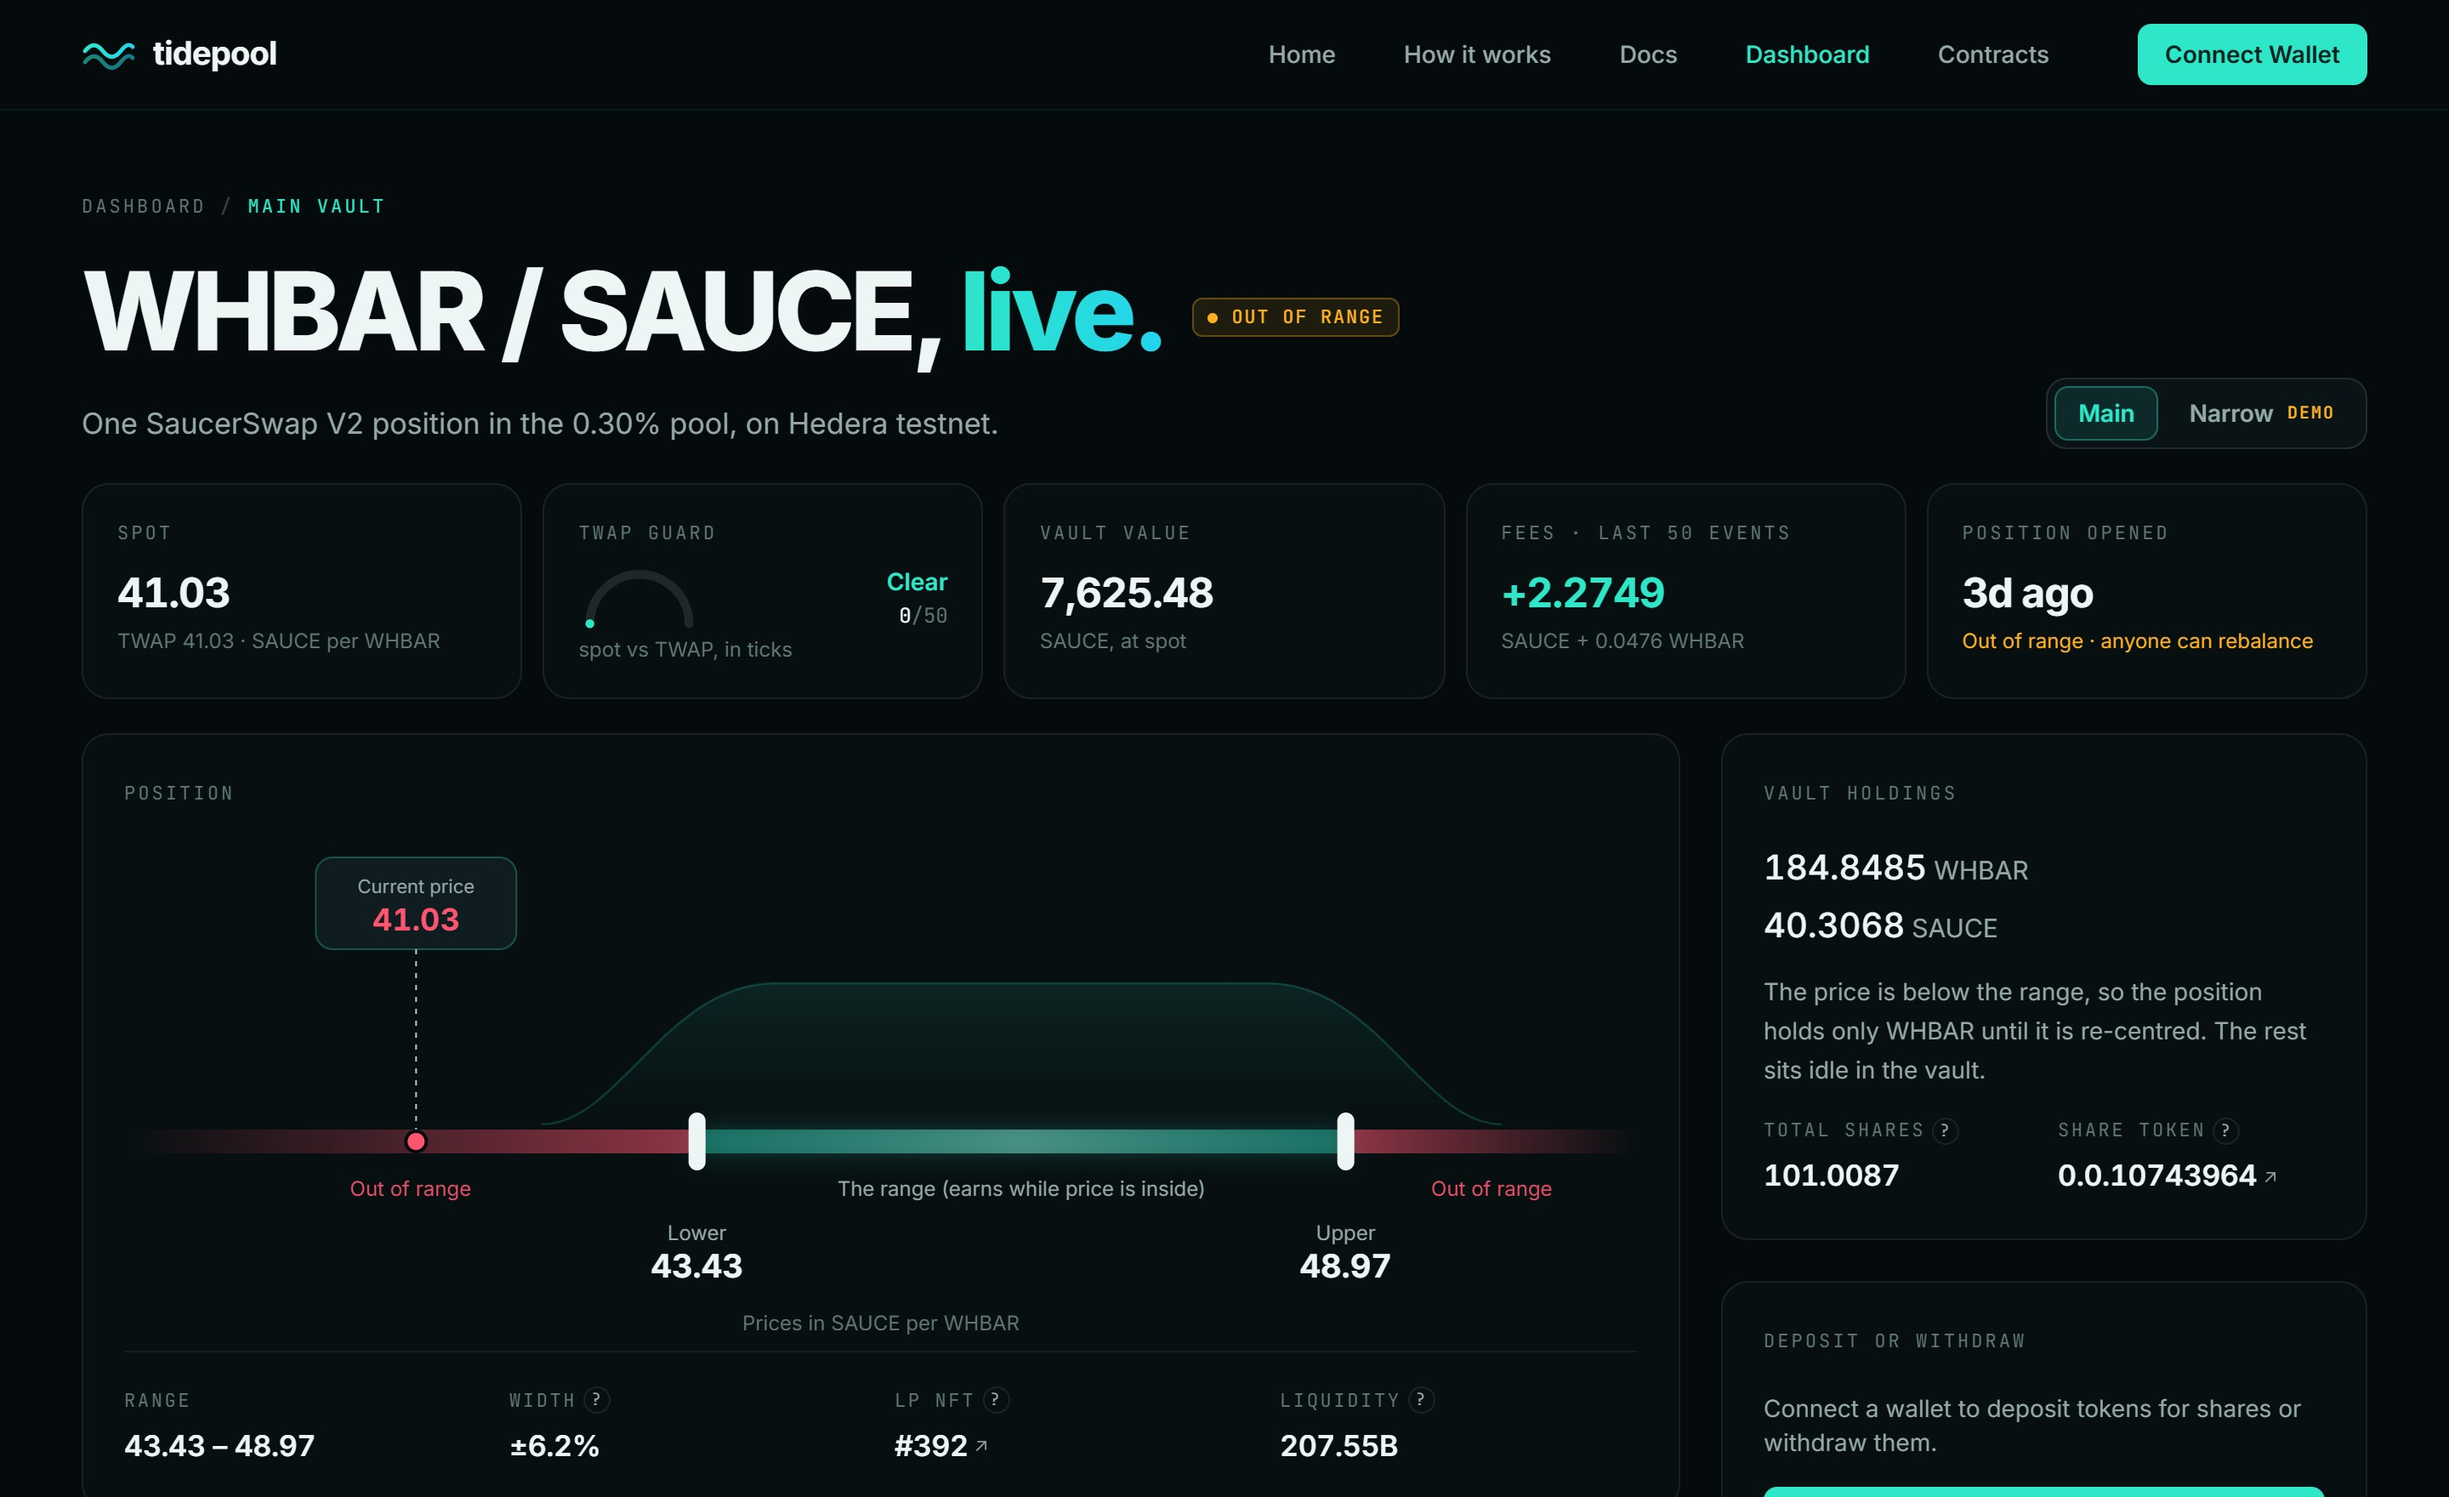
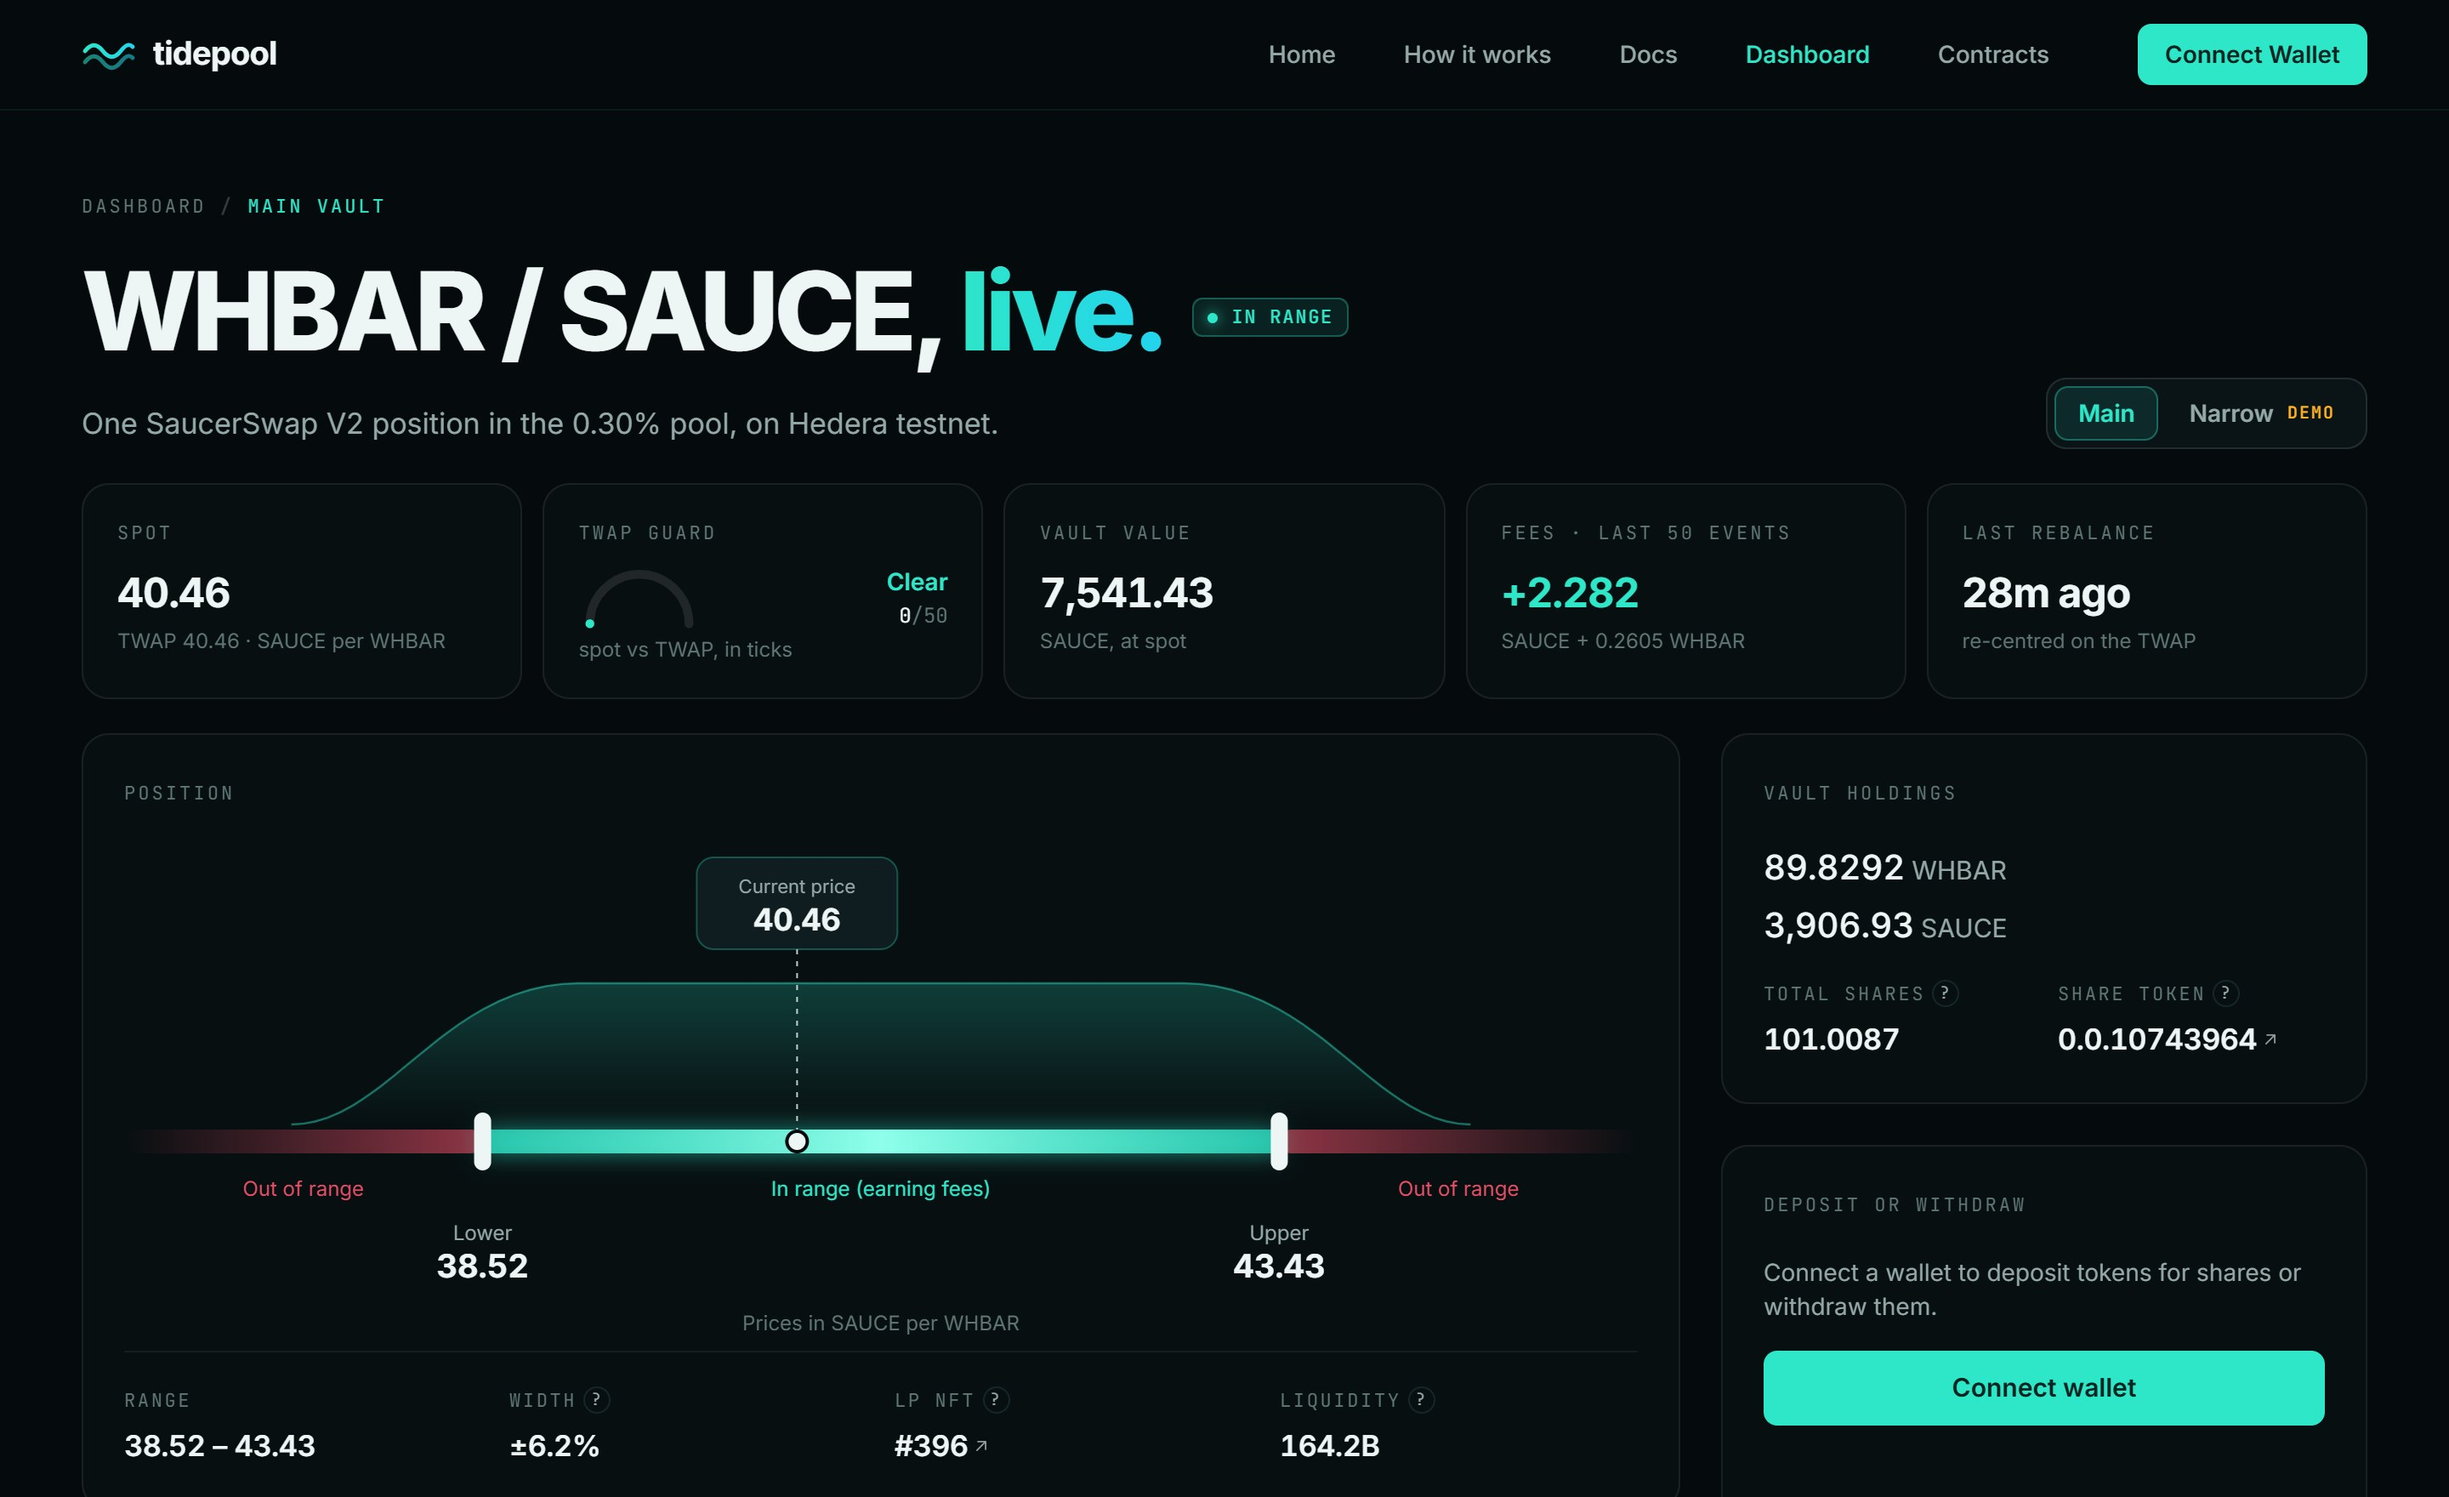
Evidence: both vaults rebalanced from the dashboard
- README and the docs site's testnet evidence: "Main: rebalance, sent from the dashboard" (#392 -> #396,
  [-8340, -7140) -> [-9540, -8340)) and "Narrow: rebalance, sent from the dashboard" (#394 -> #397,
  [-7980, -7860) -> [-9120, -9000)), with gas and fees from the mirror node
- The position fee for these calls (0.47746676 HBAR) is the value the vault forwarded to the position manager in
  the mirror node's contract actions; the footnote now says the fee follows the exchange rate
- Vault rows and ARCHITECTURE.md's main vault header name the current LP NFTs (#396, #397)
- README screenshot retaken from the live dashboard (main vault in range on #396)

diff --git a/README.md b/README.md
@@ -253,14 +253,16 @@ The rebalance above is [`0xf55864c1…0654`](https://hashscan.io/testnet/transac
 | Main: deposit from the dashboard | [`0xbcfc48e9…d82f`](https://hashscan.io/testnet/transaction/0xbcfc48e9cee0edcb1610f430ce150e85152c9677f5a77811375cbc4bf18fd82f) | 0.99988942 WHBAR + 38.245393 SAUCE in; 1.00966568 shares out |
 | Main: withdraw from the dashboard | [`0xb8132ee0…f7b4`](https://hashscan.io/testnet/transaction/0xb8132ee09d555da31bab3a66daf33e305269eda8b808a6e2b2de8b78cee6f7b4) | 0.001 shares burned; 0.0009903 WHBAR + 0.037879 SAUCE out |
 | Narrow: rebalance (#393 → #394) | [`0xf55864c1…0654`](https://hashscan.io/testnet/transaction/0xf55864c1fc7bdd54ae9597ecae2f8f70e534c0af4c0c7fb14da31065ceda0654) | TWAP tick −7899: [−7860, −7740) → [−7980, −7860) |
+| Main: rebalance, sent from the dashboard (#392 → #396) | [`0xbf698e4c…ccb6`](https://hashscan.io/testnet/transaction/0xbf698e4c105e67d5cdefcb7adc76da48629501f8813dc4bc24898f69af37ccb6) | TWAP tick −8920: [−8340, −7140) → [−9540, −8340) |
+| Narrow: rebalance, sent from the dashboard (#394 → #397) | [`0xceeb9dcb…13d0`](https://hashscan.io/testnet/transaction/0xceeb9dcbbe430a5af77754b6b19de6ee5c8260f33be42fa45c3ce03e883113d0) | TWAP tick −9046: [−7980, −7860) → [−9120, −9000) |
 
 <details>
 <summary><b>Full evidence log: contracts, every transaction, gas and fees</b></summary>
 
 | Item | Reference |
 |---|---|
-| Main vault | [`0x3BfC02f414956E66fB3B722fC935500B946ac181`](https://hashscan.io/testnet/contract/0x3BfC02f414956E66fB3B722fC935500B946ac181) (0.0.10743961) · share token 0.0.10743964 · LP NFT 0.0.1310436 #392 · source verified on Sourcify (exact match) |
-| Narrow demo vault | [`0x7bBfa539173e44aA41aFe7aB9D9Dd52edd42D244`](https://hashscan.io/testnet/contract/0x7bBfa539173e44aA41aFe7aB9D9Dd52edd42D244) (0.0.10744069) · share token 0.0.10744072 · LP NFT 0.0.1310436 #394 (#393 emptied by the rebalance) · source verified on Sourcify (exact match) |
+| Main vault | [`0x3BfC02f414956E66fB3B722fC935500B946ac181`](https://hashscan.io/testnet/contract/0x3BfC02f414956E66fB3B722fC935500B946ac181) (0.0.10743961) · share token 0.0.10743964 · LP NFT 0.0.1310436 #396 (#392 emptied by the rebalance) · source verified on Sourcify (exact match) |
+| Narrow demo vault | [`0x7bBfa539173e44aA41aFe7aB9D9Dd52edd42D244`](https://hashscan.io/testnet/contract/0x7bBfa539173e44aA41aFe7aB9D9Dd52edd42D244) (0.0.10744069) · share token 0.0.10744072 · LP NFT 0.0.1310436 #397 (#393 and #394 emptied by the rebalances) · source verified on Sourcify (exact match) |
 | Pool, WHBAR/SAUCE 0.30% | [`0x37814eDc1ae88cf27c0C346648721FB04e7E0AE7`](https://hashscan.io/testnet/contract/0x37814eDc1ae88cf27c0C346648721FB04e7E0AE7) (0.0.2661057) |
 
 | Step | Transaction | Result |
@@ -276,9 +278,13 @@ The rebalance above is [`0xf55864c1…0654`](https://hashscan.io/testnet/transac
 | Price move down | [`0xd3afb662…c658`](https://hashscan.io/testnet/transaction/0xd3afb662d0c7d96af20fa625d337f715cfb2d61b7116960fa70feff31017c658) | 120 WHBAR → 5,459.99313 SAUCE; spot tick −7793 → −7899 |
 | Narrow: rebalance (#393 → #394) | [`0xf55864c1…0654`](https://hashscan.io/testnet/transaction/0xf55864c1fc7bdd54ae9597ecae2f8f70e534c0af4c0c7fb14da31065ceda0654) | TWAP tick −7899: [−7860, −7740) → [−7980, −7860); #393 liquidity now 0; 982,492 gas; 1.07 HBAR fee + 0.64 HBAR position fee |
 | Price restored | [`0xac066a24…5a06`](https://hashscan.io/testnet/transaction/0xac066a24749c6d70f9f278d2de2cf80a3c31d38cbf530f22aa551ef1a9d35a06) | 5,459 SAUCE → 119.29406227 WHBAR; spot tick −7902 → −7794 |
+| Main: rebalance, sent from the dashboard (#392 → #396) | [`0xbf698e4c…ccb6`](https://hashscan.io/testnet/transaction/0xbf698e4c105e67d5cdefcb7adc76da48629501f8813dc4bc24898f69af37ccb6) | TWAP tick −8920: [−8340, −7140) → [−9540, −8340); `FeesCollected` 0.21283843 WHBAR + 0.007141 SAUCE; #392 liquidity now 0; 1,043,853 gas; 0.85 HBAR fee + 0.48 HBAR position fee |
+| Narrow: rebalance, sent from the dashboard (#394 → #397) | [`0xceeb9dcb…13d0`](https://hashscan.io/testnet/transaction/0xceeb9dcbbe430a5af77754b6b19de6ee5c8260f33be42fa45c3ce03e883113d0) | TWAP tick −9046: [−7980, −7860) → [−9120, −9000); #394 liquidity now 0; 1,000,182 gas; 0.81 HBAR fee + 0.48 HBAR position fee |
 
-Fees are the network fee charged for each transaction; the SaucerSwap position fee (0.64079562 HBAR) is paid on top by
-every compound and rebalance, from the HBAR sent with the call. The full log, including the two failed `initialize`
+Fees are the network fee charged for each transaction; the SaucerSwap position fee is paid on top by every compound and
+rebalance, from the HBAR sent with the call. It is 5 US cents converted at the current exchange rate: 0.64079562 HBAR
+in September, 0.47746676 HBAR on 1 October (the amount the vault forwarded to the position manager, from the mirror
+node's contract actions). The full log, including the two failed `initialize`
 attempts (association gas, then an allowance above SAUCE's max supply), is in `docs/ARCHITECTURE.md` §13.
 
 </details>

diff --git a/packages/nextjs/content/docs/testnet-evidence.md b/packages/nextjs/content/docs/testnet-evidence.md
@@ -6,8 +6,8 @@ This page lists the deployed contracts and every transaction that shows the vaul
 
 | Item | Reference |
 |---|---|
-| Main vault | [`0x3BfC02f414956E66fB3B722fC935500B946ac181`](https://hashscan.io/testnet/contract/0x3BfC02f414956E66fB3B722fC935500B946ac181) (0.0.10743961) · share token 0.0.10743964 · LP NFT 0.0.1310436 #392 · source verified on Sourcify (exact match) |
-| Narrow demo vault | [`0x7bBfa539173e44aA41aFe7aB9D9Dd52edd42D244`](https://hashscan.io/testnet/contract/0x7bBfa539173e44aA41aFe7aB9D9Dd52edd42D244) (0.0.10744069) · share token 0.0.10744072 · LP NFT 0.0.1310436 #394 (#393 emptied by the rebalance) · source verified on Sourcify (exact match) |
+| Main vault | [`0x3BfC02f414956E66fB3B722fC935500B946ac181`](https://hashscan.io/testnet/contract/0x3BfC02f414956E66fB3B722fC935500B946ac181) (0.0.10743961) · share token 0.0.10743964 · LP NFT 0.0.1310436 #396 (#392 emptied by the rebalance) · source verified on Sourcify (exact match) |
+| Narrow demo vault | [`0x7bBfa539173e44aA41aFe7aB9D9Dd52edd42D244`](https://hashscan.io/testnet/contract/0x7bBfa539173e44aA41aFe7aB9D9Dd52edd42D244) (0.0.10744069) · share token 0.0.10744072 · LP NFT 0.0.1310436 #397 (#393 and #394 emptied by the rebalances) · source verified on Sourcify (exact match) |
 | Pool, WHBAR/SAUCE 0.30% | [`0x37814eDc1ae88cf27c0C346648721FB04e7E0AE7`](https://hashscan.io/testnet/contract/0x37814eDc1ae88cf27c0C346648721FB04e7E0AE7) (0.0.2661057) |
 
 Standing allowances read on chain: WHBAR `approvalCap0` = `type(int64).max`, SAUCE `approvalCap1` = 1,000,000,000,000,000 (its max supply).
@@ -27,8 +27,10 @@ Standing allowances read on chain: WHBAR `approvalCap0` = `type(int64).max`, SAU
 | Price move down | [`0xd3afb662…c658`](https://hashscan.io/testnet/transaction/0xd3afb662d0c7d96af20fa625d337f715cfb2d61b7116960fa70feff31017c658) | 120 WHBAR → 5,459.99313 SAUCE; spot tick −7793 → −7899 |
 | Narrow: rebalance (#393 → #394) | [`0xf55864c1…0654`](https://hashscan.io/testnet/transaction/0xf55864c1fc7bdd54ae9597ecae2f8f70e534c0af4c0c7fb14da31065ceda0654) | TWAP tick −7899: [−7860, −7740) → [−7980, −7860); #393 liquidity now 0; 982,492 gas; 1.07 HBAR fee + 0.64 HBAR position fee |
 | Price restored | [`0xac066a24…5a06`](https://hashscan.io/testnet/transaction/0xac066a24749c6d70f9f278d2de2cf80a3c31d38cbf530f22aa551ef1a9d35a06) | 5,459 SAUCE → 119.29406227 WHBAR; spot tick −7902 → −7794 |
+| Main: rebalance, sent from the dashboard (#392 → #396) | [`0xbf698e4c…ccb6`](https://hashscan.io/testnet/transaction/0xbf698e4c105e67d5cdefcb7adc76da48629501f8813dc4bc24898f69af37ccb6) | TWAP tick −8920: [−8340, −7140) → [−9540, −8340); `FeesCollected` 0.21283843 WHBAR + 0.007141 SAUCE; #392 liquidity now 0; 1,043,853 gas; 0.85 HBAR fee + 0.48 HBAR position fee |
+| Narrow: rebalance, sent from the dashboard (#394 → #397) | [`0xceeb9dcb…13d0`](https://hashscan.io/testnet/transaction/0xceeb9dcbbe430a5af77754b6b19de6ee5c8260f33be42fa45c3ce03e883113d0) | TWAP tick −9046: [−7980, −7860) → [−9120, −9000); #394 liquidity now 0; 1,000,182 gas; 0.81 HBAR fee + 0.48 HBAR position fee |
 
-Fees are the network fee charged for each transaction; the SaucerSwap position fee (0.64079562 HBAR) is paid on top by every compound and rebalance, from the HBAR sent with the call.
+Fees are the network fee charged for each transaction; the SaucerSwap position fee is paid on top by every compound and rebalance, from the HBAR sent with the call. It is 5 US cents converted at the current exchange rate: 0.64079562 HBAR in September, 0.47746676 HBAR on 1 October (the amount the vault forwarded to the position manager, from the mirror node's contract actions).
 
 Both vaults were also deployed and initialized from the same account: main deploy [`0x8f967dc5…f388`](https://hashscan.io/testnet/transaction/0x8f967dc59eda3dc7f01d00389376644a5327186a13b1c1f676c1820823fcf388) (4,860,874 gas), narrow deploy [`0x08afb1da…db25`](https://hashscan.io/testnet/transaction/0x08afb1da0897542130f7198e7aea5a106bbe8a5568c3f427575b8917517edb25), narrow initialize [`0x3002ec2f…0e5d`](https://hashscan.io/testnet/transaction/0x3002ec2f444978a5a16acb06f709ed316f6896d02d94a173c85d10c496570e5d), narrow deposit of exactly 2 WHBAR + 93 SAUCE [`0xb3f50342…8875`](https://hashscan.io/testnet/transaction/0xb3f503427dfb9c97a34cd9e092fc0458c3094c82e14922fc669d16cee7af8875).
 

diff --git a/docs/ARCHITECTURE.md b/docs/ARCHITECTURE.md
@@ -719,7 +719,7 @@ mirror node's transaction IDs carry the relay's operator account as payer). Pool
 fee, 0.64079562 HBAR (exactly `tinycentsToTinybars(fee) + 1`), and the vault refunds the 1 HBAR headroom sent with it.
 
 **Main vault** `TidepoolVault`: 0.0.10743961 / `0x3BfC02f414956E66fB3B722fC935500B946ac181`; share token
-0.0.10743964; LP NFT 0.0.1310436 #392. Standing allowances read on chain: WHBAR `approvalCap0` = `type(int64).max`,
+0.0.10743964; LP NFT 0.0.1310436 #392, #396 since the 1 Oct 2026 rebalance. Standing allowances read on chain: WHBAR `approvalCap0` = `type(int64).max`,
 SAUCE `approvalCap1` = 1,000,000,000,000,000 (its max supply).
 
 | Step | Tx hash | Result | Gas used / limit | Fee (HBAR) | Notes |
